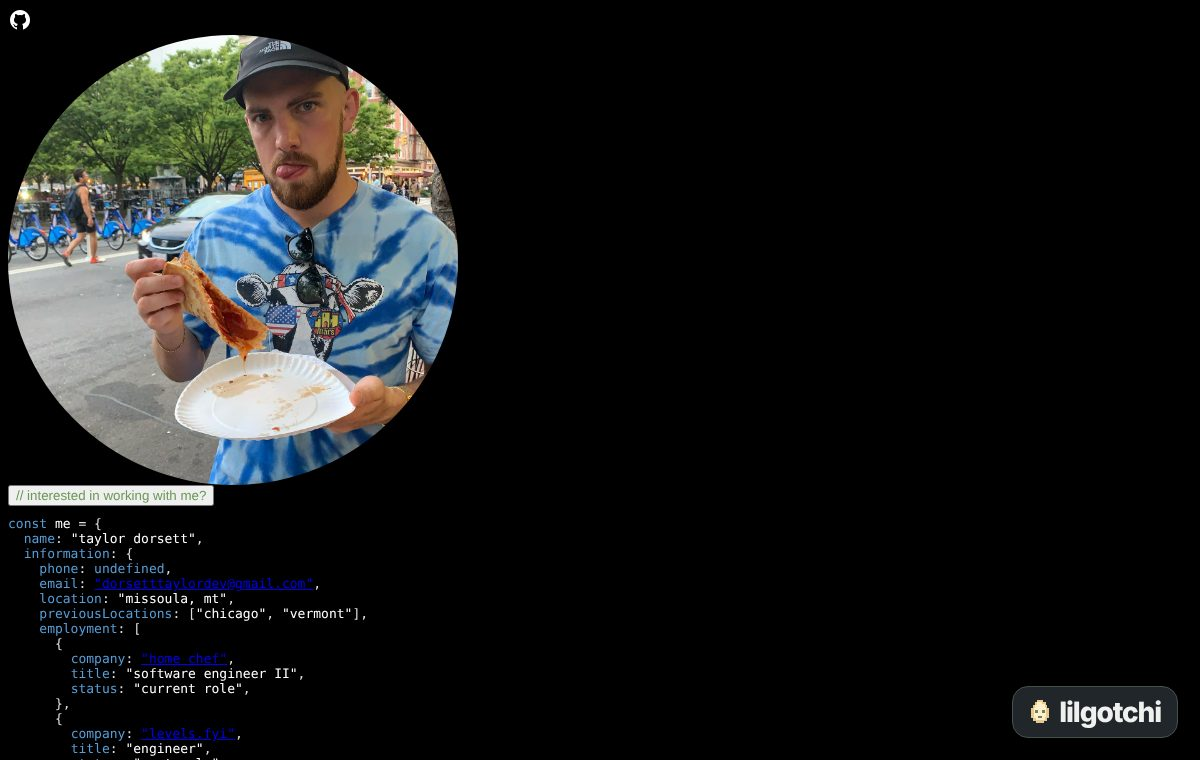
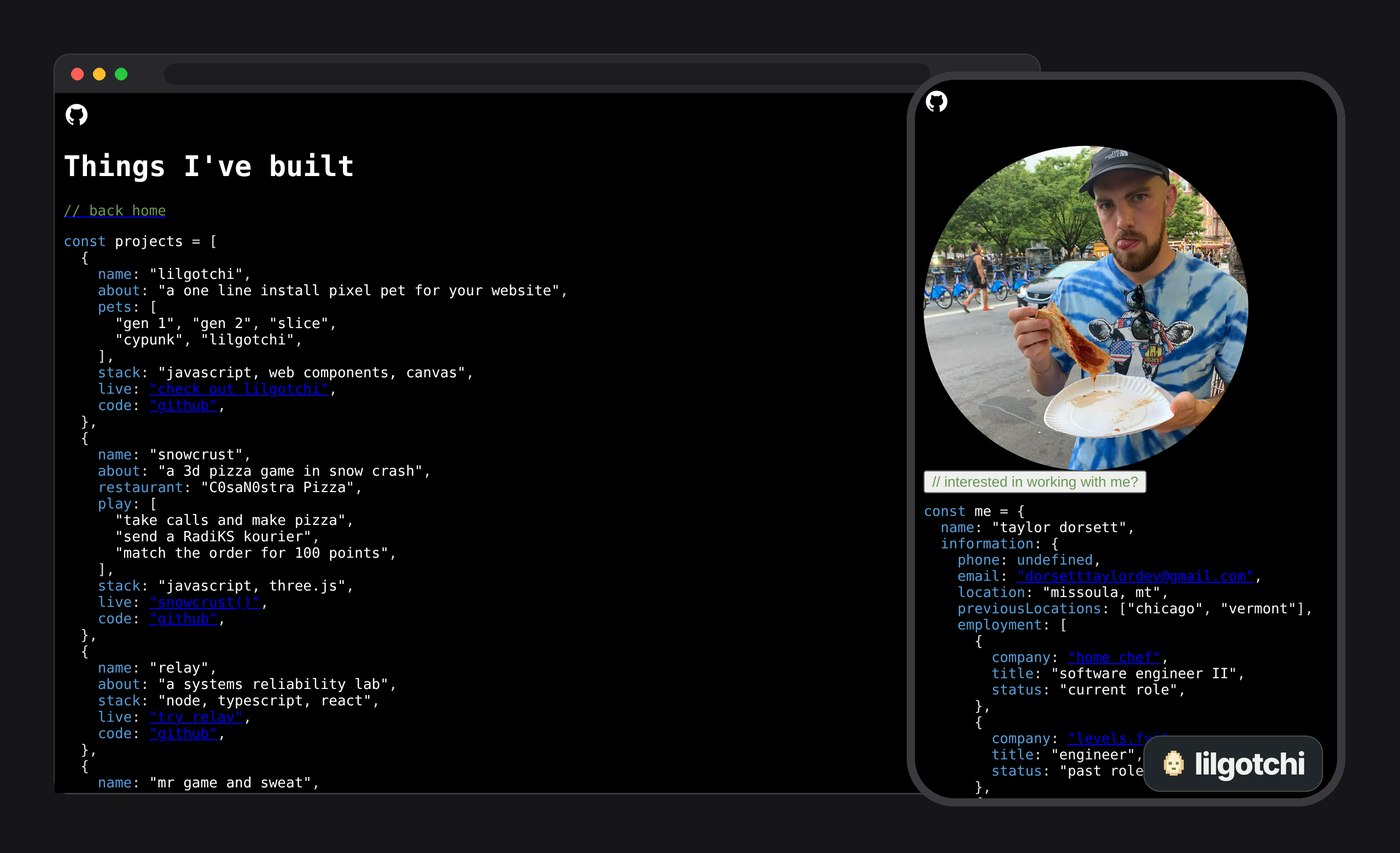
better readme screenshot and run command

diff --git a/README.md b/README.md
@@ -4,7 +4,7 @@ My personal site. It lives at [taylordorsett.com](https://www.taylordorsett.com/
 
 The home page is me, written as a JavaScript object. There is a pizza photo and a work photo, and a button to switch between them. The button in the corner opens [lilgotchi](https://github.com/TaylorOD/lilgotchi), a little pixel pet I built.
 
-![The home page of taylordorsett.com](screenshots/readme-home.jpg)
+![The projects page on desktop and the home page on a phone](screenshots/readme-home.jpg)
 
 ## What's here
 
@@ -26,13 +26,13 @@ Plain HTML, CSS and JavaScript. Tailwind from a CDN on the home page. No framewo
 
 ## Running it locally
 
-Serve the folder with anything that serves static files:
+Serve the folder with anything that serves static files, like http-server or VS Code's Live Server:
 
 ```sh
-python3 -m http.server
+npx http-server .
 ```
 
-Then open http://localhost:8000. The pets use JavaScript modules, so opening the file directly won't work.
+Then open http://localhost:8080. The pets use JavaScript modules, so opening the file directly won't work.
 
 Run the pet checks with:
 
